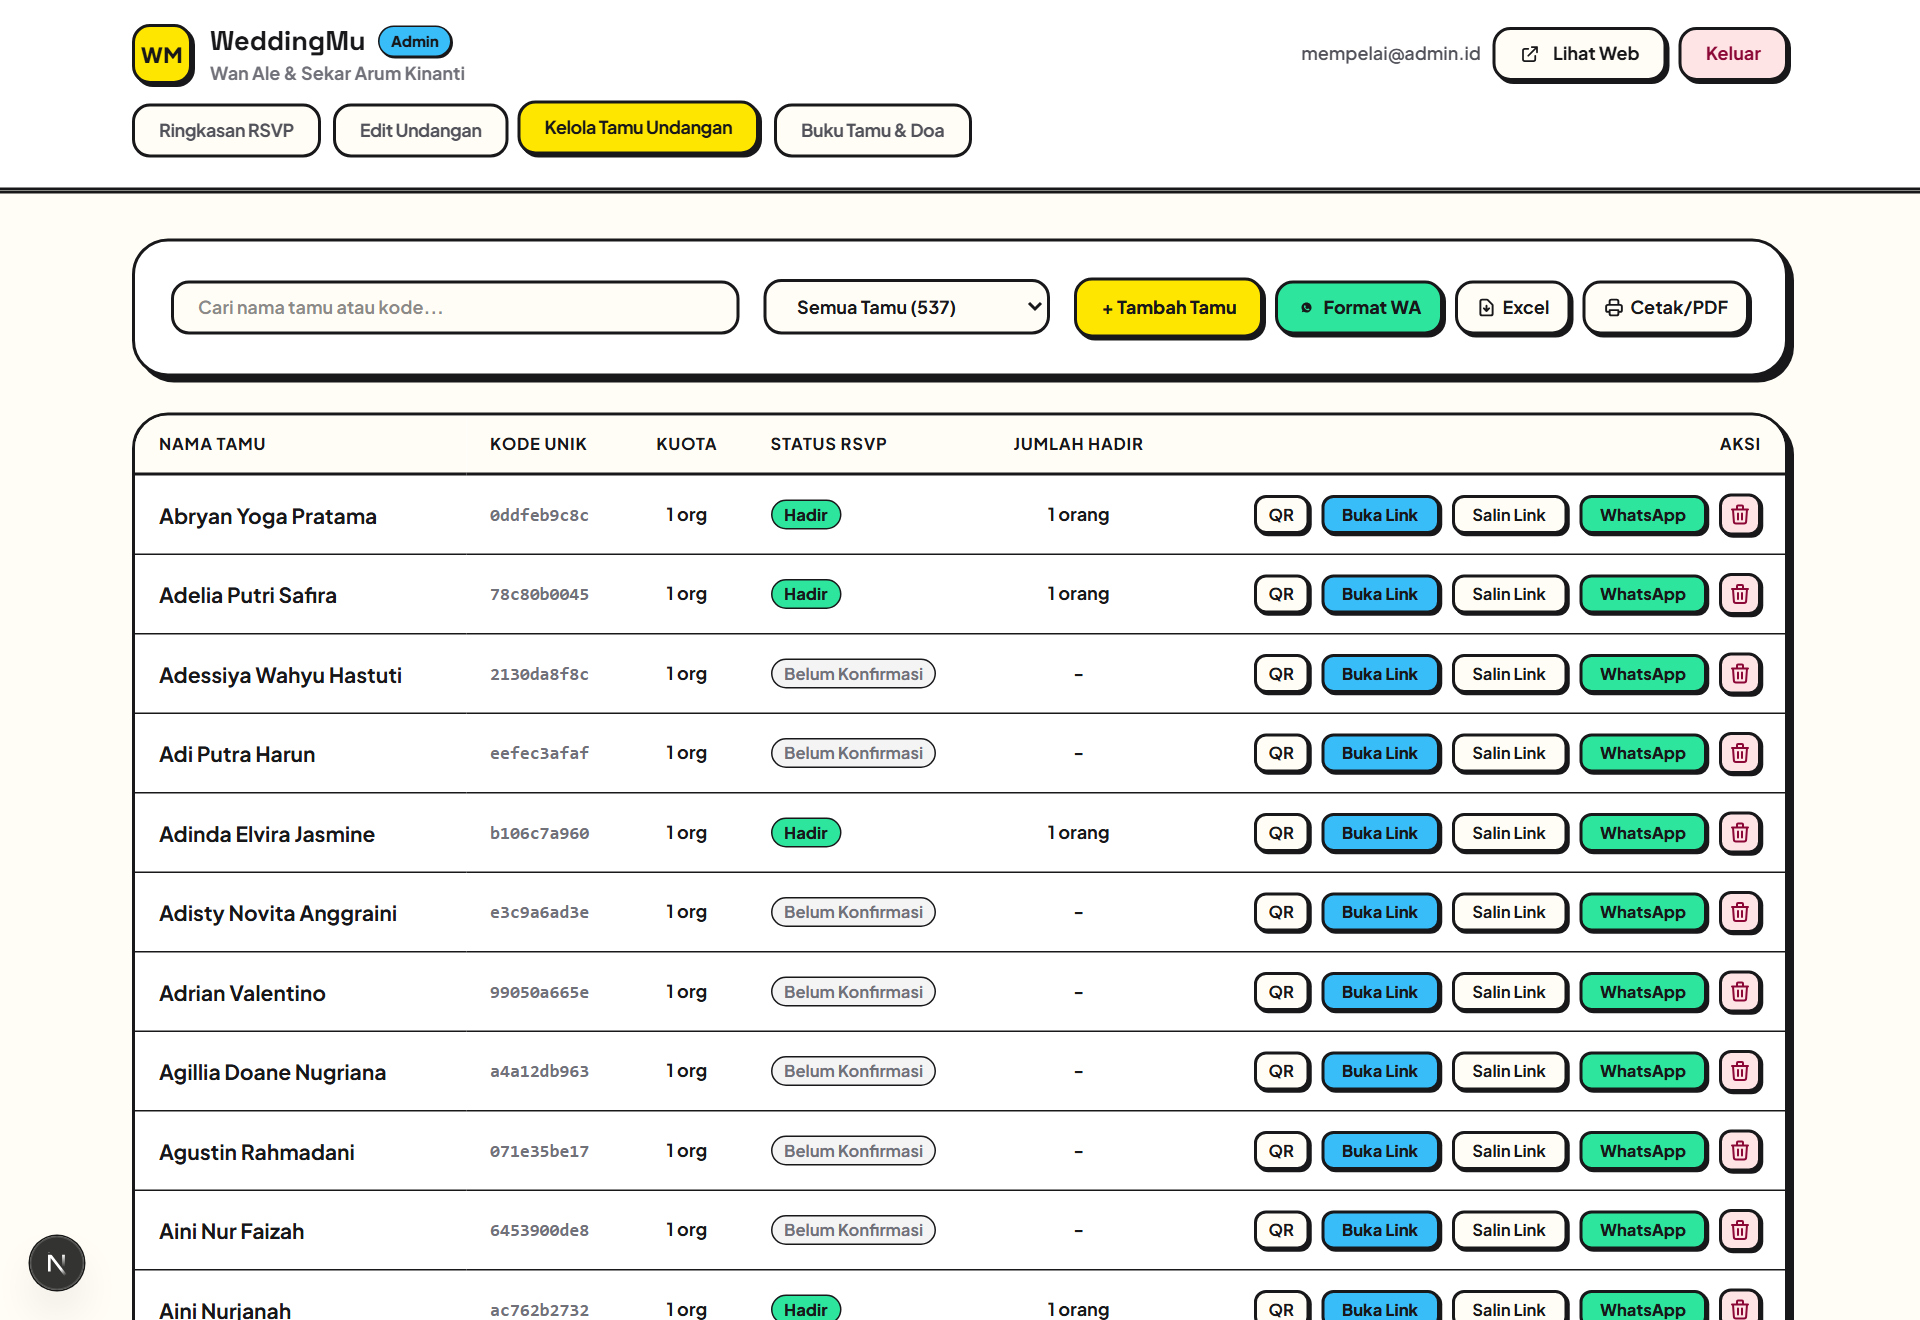
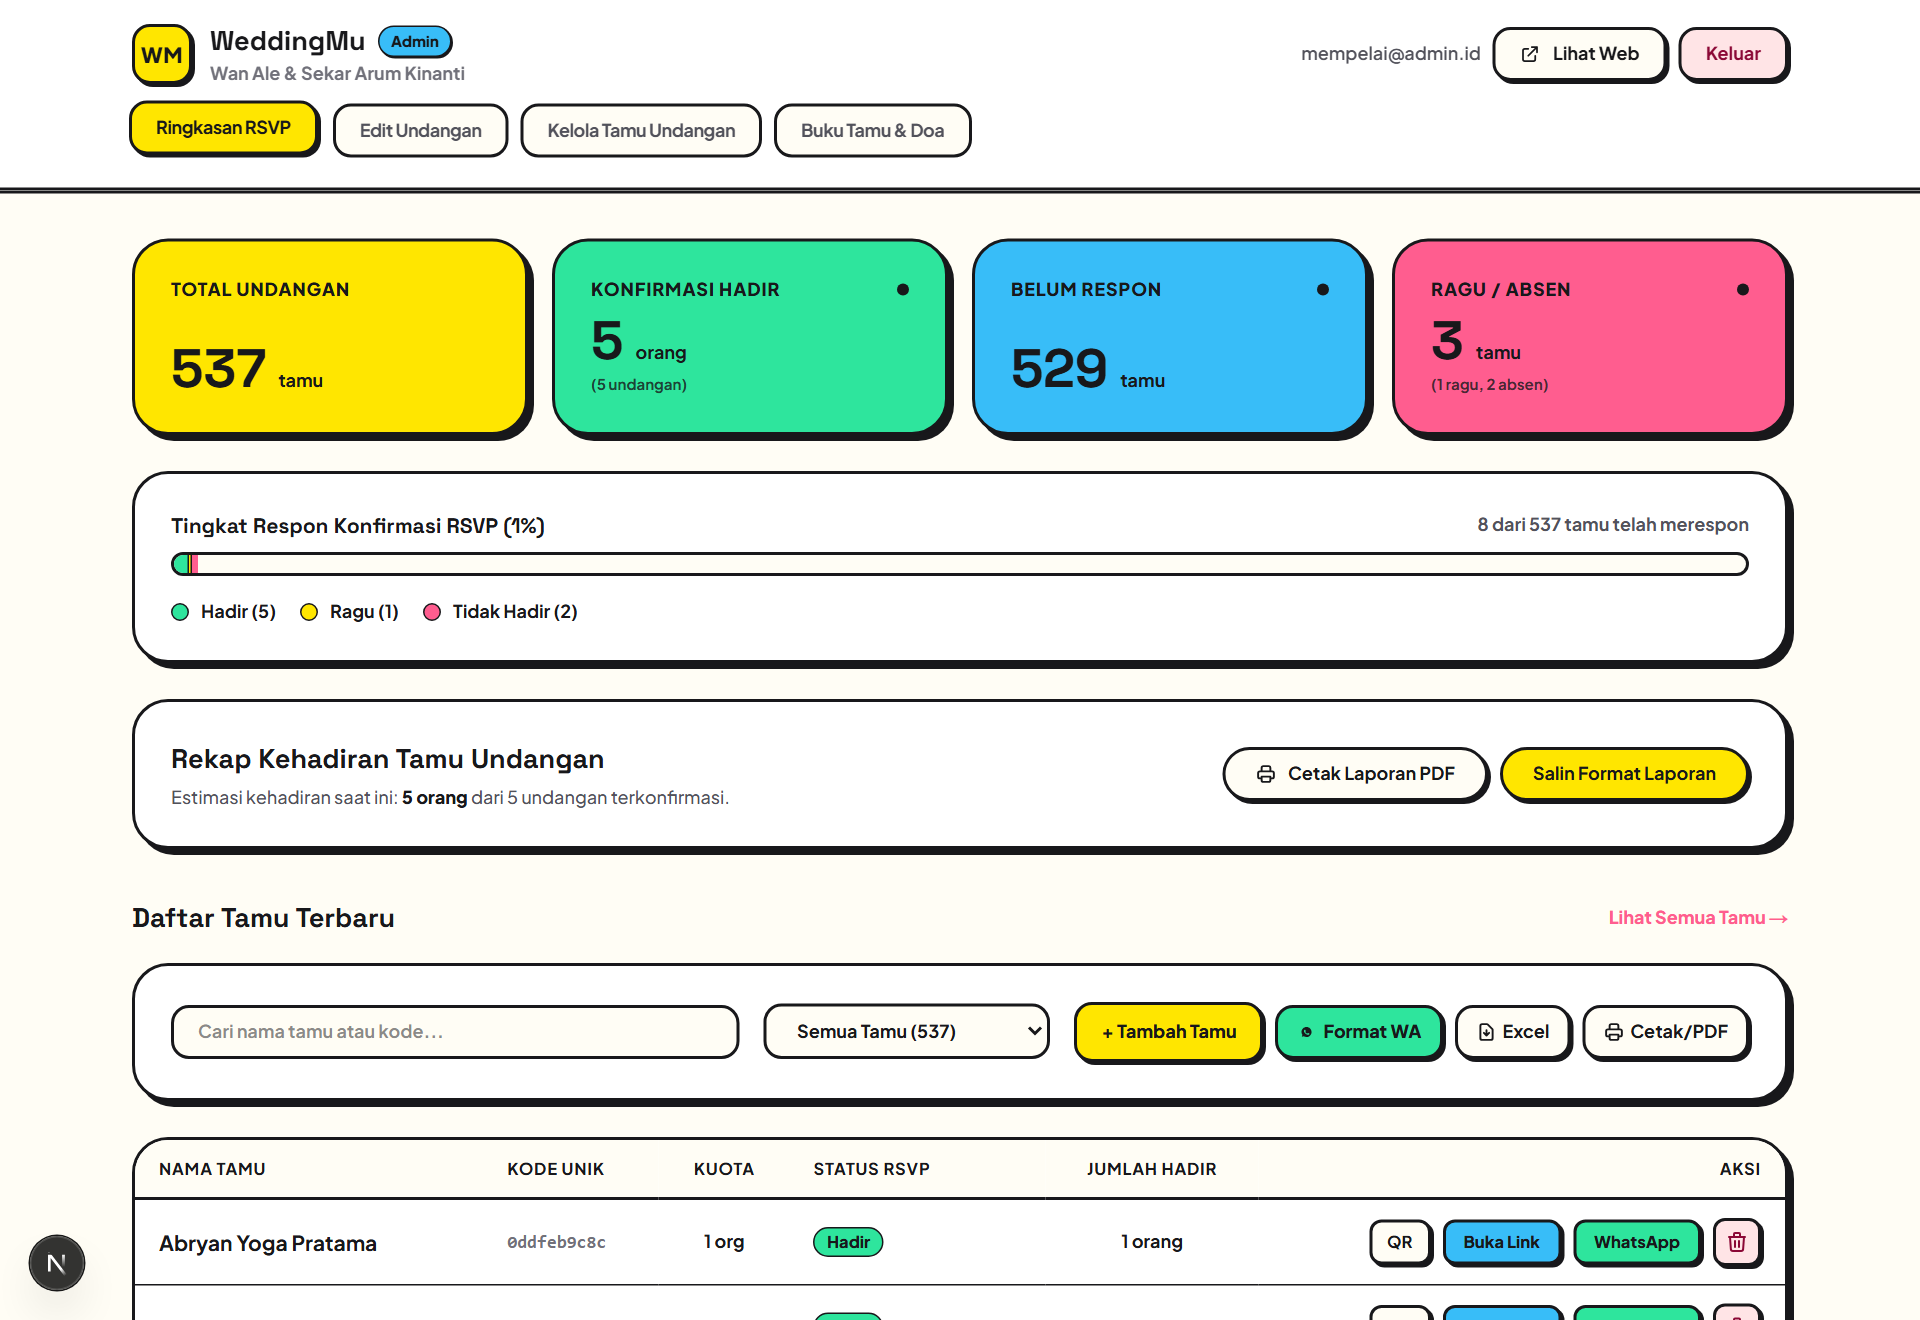
feat: add guest management component and WhatsApp share configuration options

diff --git a/components/admin/GuestManagement.tsx b/components/admin/GuestManagement.tsx
@@ -179,12 +179,6 @@ export default function GuestManagement({
     return buildInvitationUrl(kode, slug, waConfig);
   };
 
-  const copyInvitationLink = (kode: string, nama: string) => {
-    const url = getInvitationUrl(kode);
-    navigator.clipboard.writeText(url);
-    showToast(`Link untuk ${nama} berhasil disalin!`);
-  };
-
   const openInvitationLink = (kode: string) => {
     const url = getInvitationUrl(kode);
     window.open(url, "_blank", "noopener,noreferrer");
@@ -479,7 +473,7 @@ export default function GuestManagement({
                             <button
                               onClick={() => setQrModalGuest(tamu)}
                               type="button"
-                              className="px-2 py-1 rounded-lg border-2 border-[#18181B] bg-[#FFFDF5] hover:bg-[#38BDF8] text-[#18181B] text-[11px] font-bold shadow-[1.5px_1.5px_0px_#18181B] cursor-pointer"
+                              className="px-2.5 py-1.5 rounded-lg border-2 border-[#18181B] bg-[#FFFDF5] hover:bg-[#38BDF8] text-[#18181B] text-[11px] font-bold shadow-[2px_2px_0px_#18181B] cursor-pointer active:translate-x-0.5 active:translate-y-0.5"
                               title="Lihat QR Code Tiket"
                             >
                               QR
@@ -487,22 +481,16 @@ export default function GuestManagement({
                             <button
                               onClick={() => openInvitationLink(tamu.kode)}
                               type="button"
-                              className="px-3 py-1 rounded-lg border-2 border-[#18181B] bg-[#38BDF8] hover:bg-[#7DD3FC] text-[#18181B] text-[11px] font-extrabold shadow-[1.5px_1.5px_0px_#18181B] cursor-pointer whitespace-nowrap"
+                              className="px-3 py-1.5 rounded-lg border-2 border-[#18181B] bg-[#38BDF8] hover:bg-[#7DD3FC] text-[#18181B] text-[11px] font-extrabold shadow-[2px_2px_0px_#18181B] cursor-pointer whitespace-nowrap active:translate-x-0.5 active:translate-y-0.5"
                               title="Buka Undangan Pribadi di Tab Baru"
                             >
                               Buka Link
                             </button>
                             <button
-                              onClick={() => copyInvitationLink(tamu.kode, tamu.nama_tamu)}
-                              type="button"
-                              className="px-3 py-1 rounded-lg border-2 border-[#18181B] bg-[#FFFDF5] hover:bg-[#FFE600] text-[#18181B] text-[11px] font-bold shadow-[1.5px_1.5px_0px_#18181B] cursor-pointer whitespace-nowrap"
-                            >
-                              Salin Link
-                            </button>
-                            <button
                               onClick={() => openWhatsApp(tamu)}
                               type="button"
-                              className="px-3 py-1 rounded-lg border-2 border-[#18181B] bg-[#2EE59D] hover:bg-[#28D08D] text-[#18181B] text-[11px] font-extrabold shadow-[1.5px_1.5px_0px_#18181B] cursor-pointer"
+                              className="px-3 py-1.5 rounded-lg border-2 border-[#18181B] bg-[#2EE59D] hover:bg-[#28D08D] text-[#18181B] text-[11px] font-extrabold shadow-[2px_2px_0px_#18181B] cursor-pointer whitespace-nowrap active:translate-x-0.5 active:translate-y-0.5"
+                              title="Kirim Undangan WhatsApp"
                             >
                               WhatsApp
                             </button>
@@ -510,7 +498,7 @@ export default function GuestManagement({
                               onClick={() => handleDeleteGuest(tamu.id_tamu, tamu.nama_tamu)}
                               disabled={deletingId === tamu.id_tamu}
                               type="button"
-                              className="p-1 rounded-lg border-2 border-[#18181B] bg-rose-100 hover:bg-rose-200 text-rose-900 cursor-pointer shadow-[1.5px_1.5px_0px_#18181B] disabled:opacity-50 disabled:cursor-not-allowed"
+                              className="p-1.5 rounded-lg border-2 border-[#18181B] bg-rose-100 hover:bg-rose-200 text-rose-900 cursor-pointer shadow-[2px_2px_0px_#18181B] disabled:opacity-50 disabled:cursor-not-allowed active:translate-x-0.5 active:translate-y-0.5"
                               title="Hapus Tamu"
                             >
                               <svg className="w-4 h-4" fill="none" viewBox="0 0 24 24" stroke="currentColor">
@@ -566,33 +554,26 @@ export default function GuestManagement({
                       </div>
                     </div>
 
-                    {/* Touch-optimized action buttons */}
-                    <div className="grid grid-cols-2 gap-2 pt-2 border-t border-[#18181B]/10">
+                    {/* Touch-optimized action buttons (2x2 symmetrical grid) */}
+                    <div className="grid grid-cols-2 gap-2 pt-3 border-t border-[#18181B]/10">
                       <button
                         onClick={() => openInvitationLink(tamu.kode)}
                         type="button"
-                        className="col-span-2 py-2 px-3 rounded-xl border-2 border-[#18181B] bg-[#38BDF8] hover:bg-[#7DD3FC] text-[#18181B] text-xs font-extrabold shadow-[2px_2px_0px_#18181B] text-center flex items-center justify-center cursor-pointer"
+                        className="py-2.5 px-3 rounded-xl border-2 border-[#18181B] bg-[#38BDF8] hover:bg-[#7DD3FC] text-[#18181B] text-xs font-black shadow-[2px_2px_0px_#18181B] text-center flex items-center justify-center cursor-pointer active:translate-x-0.5 active:translate-y-0.5"
                       >
-                        <span>Buka Link Undangan</span>
-                      </button>
-                      <button
-                        onClick={() => copyInvitationLink(tamu.kode, tamu.nama_tamu)}
-                        type="button"
-                        className="py-2 px-2 rounded-xl border-2 border-[#18181B] bg-[#FFFDF5] hover:bg-[#FFE600] text-[#18181B] text-[11px] font-bold shadow-[2px_2px_0px_#18181B] text-center flex items-center justify-center cursor-pointer"
-                      >
-                        <span>Salin Link</span>
+                        <span>Buka Link</span>
                       </button>
                       <button
                         onClick={() => openWhatsApp(tamu)}
                         type="button"
-                        className="py-2 px-2 rounded-xl border-2 border-[#18181B] bg-[#2EE59D] hover:bg-[#28D08D] text-[#18181B] text-[11px] font-extrabold shadow-[2px_2px_0px_#18181B] text-center flex items-center justify-center cursor-pointer"
+                        className="py-2.5 px-3 rounded-xl border-2 border-[#18181B] bg-[#2EE59D] hover:bg-[#28D08D] text-[#18181B] text-xs font-black shadow-[2px_2px_0px_#18181B] text-center flex items-center justify-center cursor-pointer active:translate-x-0.5 active:translate-y-0.5"
                       >
                         <span>WhatsApp</span>
                       </button>
                       <button
                         onClick={() => setQrModalGuest(tamu)}
                         type="button"
-                        className="py-2 px-2 rounded-xl border-2 border-[#18181B] bg-[#FFFDF5] hover:bg-[#38BDF8] text-[#18181B] text-[11px] font-bold shadow-[2px_2px_0px_#18181B] text-center flex items-center justify-center cursor-pointer"
+                        className="py-2.5 px-3 rounded-xl border-2 border-[#18181B] bg-[#FFFDF5] hover:bg-[#FFE600] text-[#18181B] text-xs font-bold shadow-[2px_2px_0px_#18181B] text-center flex items-center justify-center cursor-pointer active:translate-x-0.5 active:translate-y-0.5"
                       >
                         <span>Tiket QR</span>
                       </button>
@@ -600,9 +581,9 @@ export default function GuestManagement({
                         onClick={() => handleDeleteGuest(tamu.id_tamu, tamu.nama_tamu)}
                         disabled={deletingId === tamu.id_tamu}
                         type="button"
-                        className="py-2 px-2 rounded-xl border-2 border-[#18181B] bg-rose-100 hover:bg-rose-200 text-rose-900 text-[11px] font-bold shadow-[2px_2px_0px_#18181B] text-center flex items-center justify-center cursor-pointer disabled:opacity-50 disabled:cursor-not-allowed"
+                        className="py-2.5 px-3 rounded-xl border-2 border-[#18181B] bg-rose-100 hover:bg-rose-200 text-rose-900 text-xs font-bold shadow-[2px_2px_0px_#18181B] text-center flex items-center justify-center cursor-pointer disabled:opacity-50 disabled:cursor-not-allowed active:translate-x-0.5 active:translate-y-0.5"
                       >
-                        <span>{deletingId === tamu.id_tamu ? "Menghapus..." : "Hapus"}</span>
+                        <span>{deletingId === tamu.id_tamu ? "Menghapus..." : "Hapus Tamu"}</span>
                       </button>
                     </div>
                   </div>
@@ -831,21 +812,14 @@ export default function GuestManagement({
               <button
                 type="button"
                 onClick={() => openInvitationLink(qrModalGuest.kode)}
-                className="py-2 rounded-xl border-2 border-[#18181B] bg-[#38BDF8] hover:bg-[#7DD3FC] text-[#18181B] text-xs font-extrabold cursor-pointer"
+                className="py-2.5 rounded-xl border-2 border-[#18181B] bg-[#38BDF8] hover:bg-[#7DD3FC] text-[#18181B] text-xs font-black cursor-pointer shadow-[2px_2px_0px_#18181B] active:translate-x-0.5 active:translate-y-0.5 text-center"
               >
                 Buka Link
               </button>
               <button
                 type="button"
-                onClick={() => copyInvitationLink(qrModalGuest.kode, qrModalGuest.nama_tamu)}
-                className="py-2 rounded-xl border-2 border-[#18181B] bg-[#FFFDF5] hover:bg-[#FFE600] text-xs font-bold cursor-pointer"
-              >
-                Salin Link
-              </button>
-              <button
-                type="button"
                 onClick={() => setQrModalGuest(null)}
-                className="col-span-2 py-2 rounded-xl bg-[#18181B] text-white text-xs font-bold cursor-pointer"
+                className="py-2.5 rounded-xl bg-[#18181B] hover:bg-[#27272A] text-white text-xs font-bold cursor-pointer text-center active:translate-x-0.5 active:translate-y-0.5"
               >
                 Tutup
               </button>

diff --git a/README.md b/README.md
@@ -99,7 +99,7 @@ Pusat statistik kehadiran real-time menampilkan metrik total tamu, konfirmasi ha
 <br />
 
 ### 6. Manajemen Tamu Undangan & Generator WhatsApp
-Tabel data tamu interaktif dengan fitur pencarian instan, filter status, pengubah kuota, penyalin tautan personal, dan generator pesan WhatsApp satu klik.
+Tabel data tamu interaktif dengan fitur pencarian instan, filter status, pengubah kuota, pembuka tautan undangan, tiket QR, dan generator pesan WhatsApp satu klik.
 <div align="center">
   <img src="docs/screenshots/guest_management.png" alt="Manajemen Tamu Undangan" width="820" />
 </div>
@@ -418,7 +418,7 @@ Berfokus pada pengelolaan operasional acara dan koordinasi logistik kehadiran ta
 **Tugas dan Pekerjaan:**
 - **Kustomisasi Detail Acara (CMS):** Menyesuaikan informasi tempat, waktu, dan tautan lokasi perayaan jika terjadi pembaruan jadwal.
 - **Pengelolaan Daftar Tamu:** Menginput daftar nama tamu dan kuota rombongan keluarga yang diundang.
-- **Distribusi Undangan Personal:** Menyalin tautan undangan unik atau mengirim pesan otomatis ke nomor WhatsApp tamu melalui fitur *Quick Share*.
+- **Distribusi Undangan Personal:** Membuka tautan undangan langsung atau mengirim pesan personal ke nomor WhatsApp tamu melalui fitur *Quick Share*.
 - **Pemantauan Katering & Respon:** Memantau kepastian jumlah kehadiran aktual secara langsung untuk koordinasi dengan tim katering dan panitia penerima tamu.
 - **Ekspor dan Pencetakan Laporan:** Mengunduh rekapitulasi kehadiran tamu ke format Excel serta mencetak dokumen laporan A4 untuk kebutuhan arsip fisik kepanitiaan.
 - **Moderasi Ucapan Doa:** Meninjau pesan ucapan dan doa restu yang masuk di buku tamu digital.
